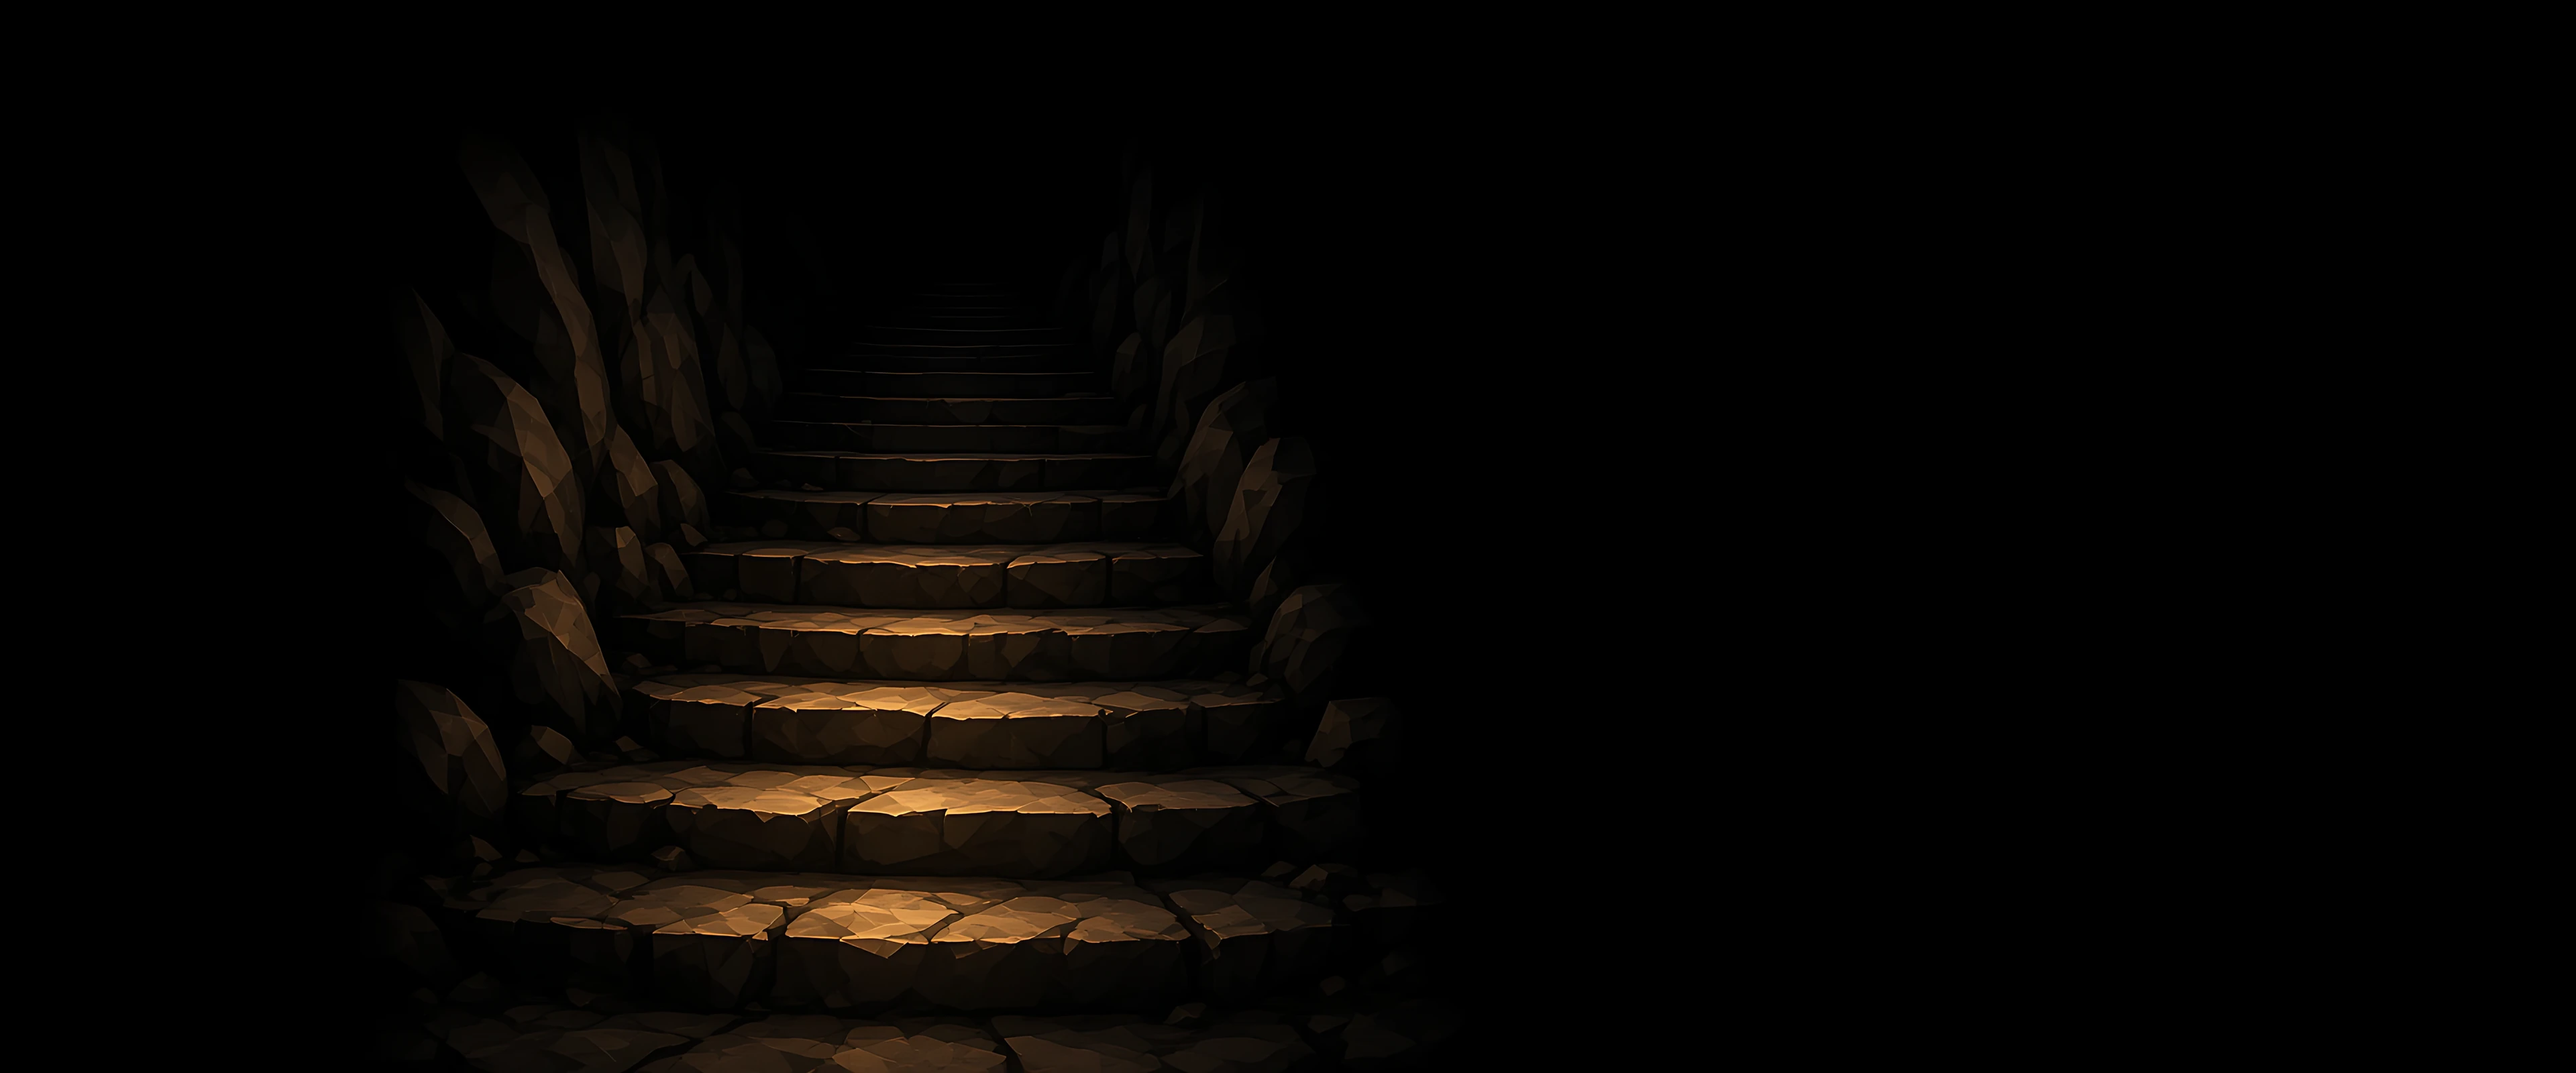
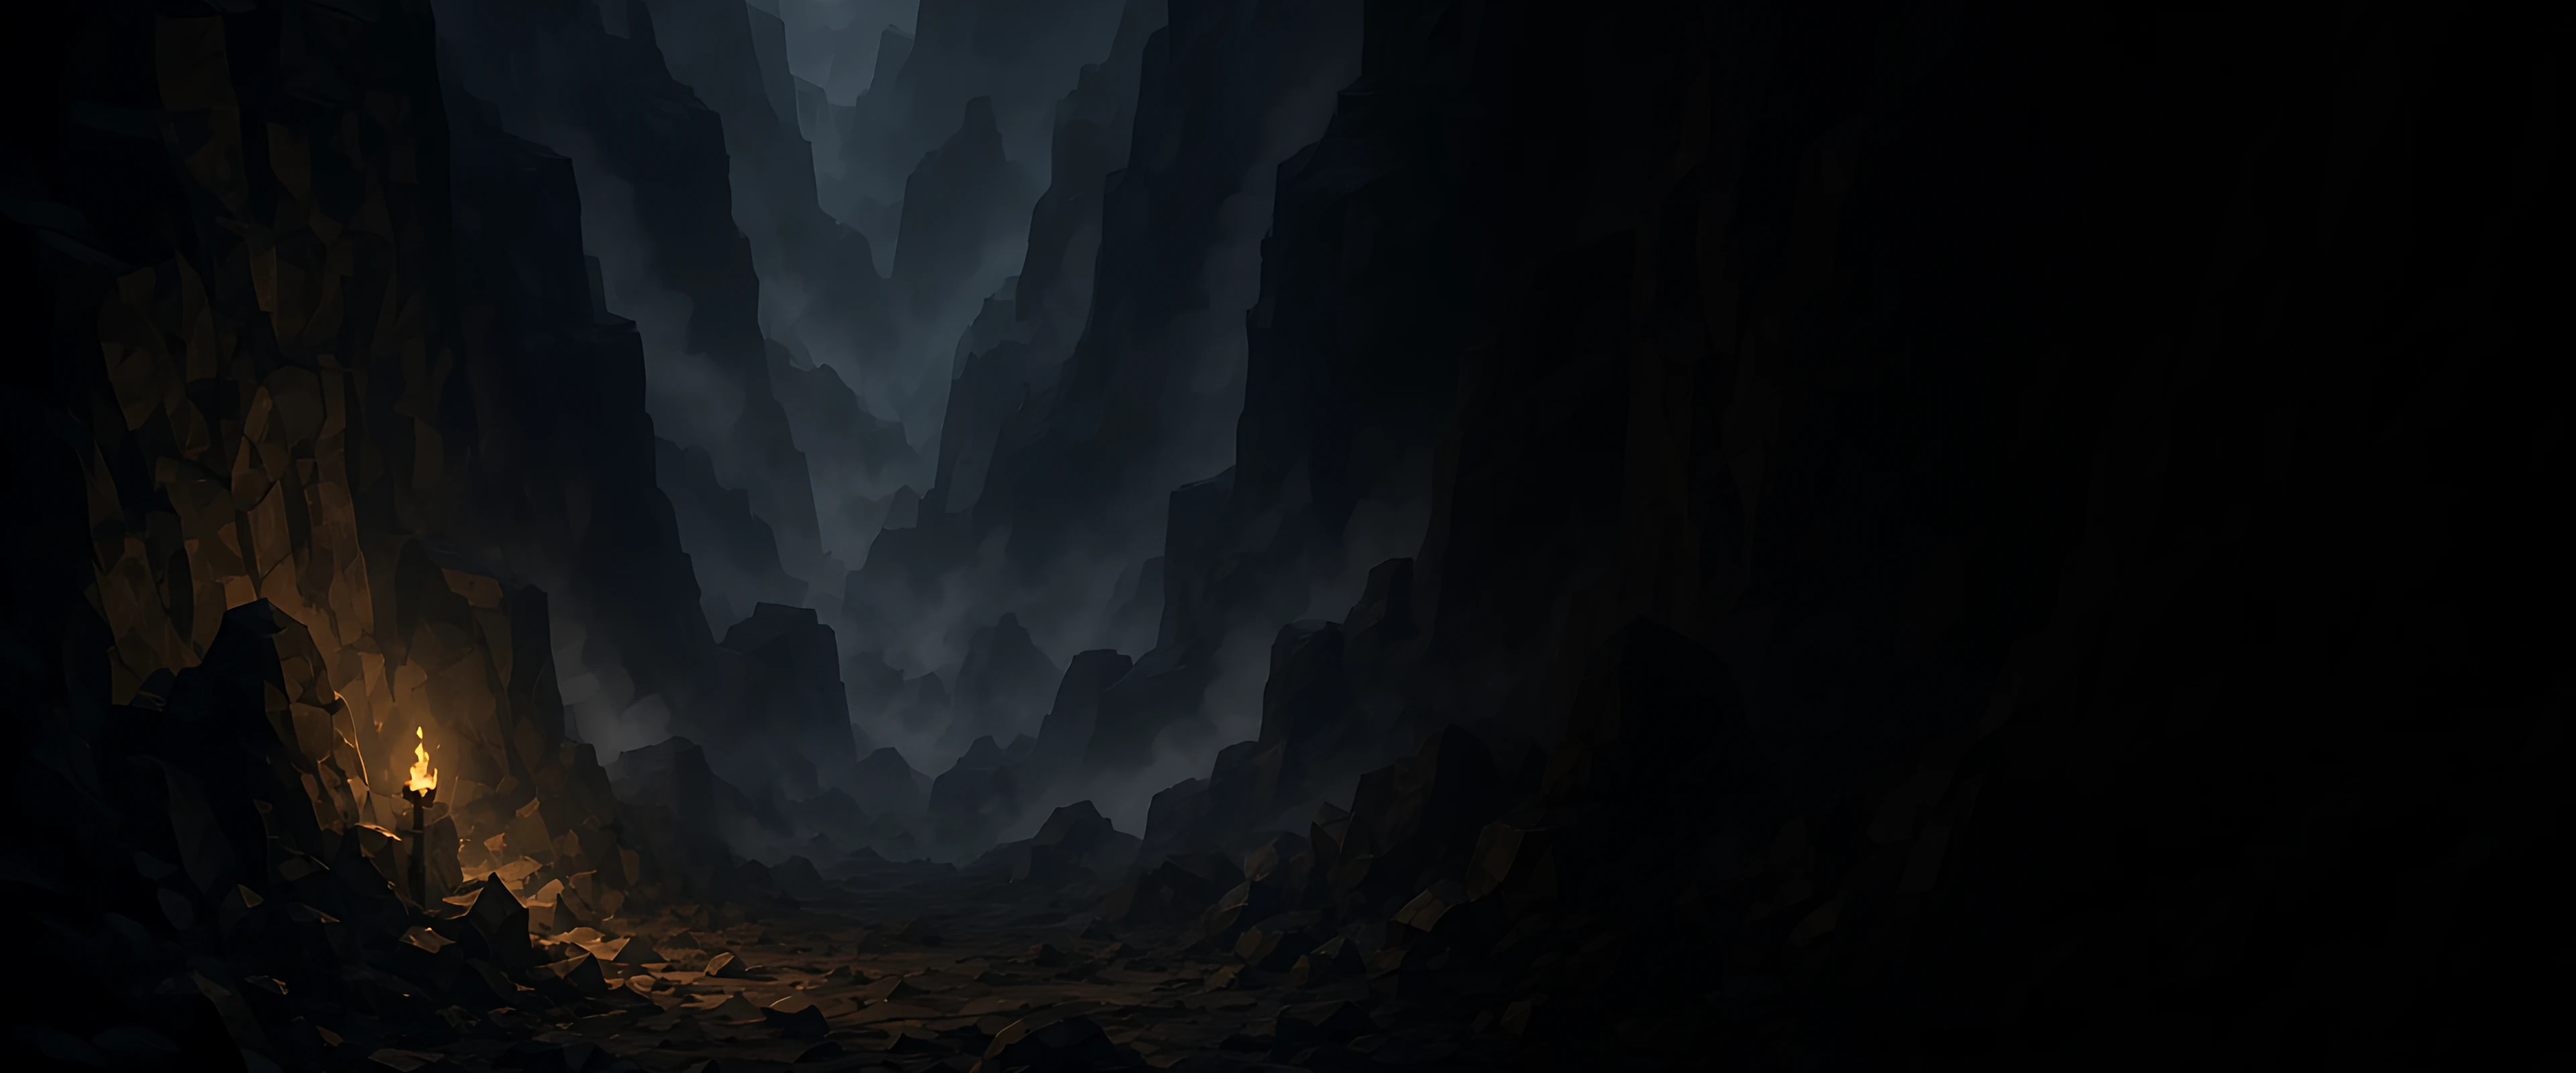
Menu v3a: bg_menu v3 (md5 230e54ed), .mm-glow removed, data-driven torch flicker (MENU_ART: glow, flame, lit rocks, pan cap) in image coordinates, 16:9 pan keeps the flame on screen; stops under reduced motion

Changed region(s): [[0.0312, 0.0, 0.5625, 1.0], [0.0938, 0.25, 0.125, 0.2812]]

diff --git a/src/style.css b/src/style.css
@@ -517,17 +517,32 @@ body.reduced .foil-sweep{animation:none;opacity:0}
 
 /* ================= v2.2 main menu ================= */
 .mainmenu{position:absolute;inset:0;overflow:hidden;background:#07050a;z-index:5}
-.mm-bg{position:absolute;inset:-4%;background-size:cover;background-position:30% 50%;animation:mmpan 38s ease-in-out infinite alternate;
-  translate:calc(var(--mx,0) * -14px) calc(var(--my,0) * -8px);transition:translate .6s ease-out}
-@keyframes mmpan{from{scale:1.02;background-position:26% 48%}to{scale:1.09;background-position:36% 54%}}
-.mm-glow{position:absolute;border-radius:50%;pointer-events:none;mix-blend-mode:screen;background:radial-gradient(circle,#ffb04aaa 0,#ff7a1a44 35%,#0000 70%);animation:flicker 2.3s infinite;
-  translate:calc(var(--mx,0) * -16px) calc(var(--my,0) * -9px);transition:translate .6s ease-out}
-/* bg_menu = Palette's stairs painting (Nov 3): the glows are only a faint torch flicker on the lit steps; the old .mm-eye is gone (no figures). */
-.mm-glow{filter:opacity(.45)}
-.mm-glow.g1{left:14%;top:58%;width:17%;aspect-ratio:1}
-.mm-glow.g2{left:36%;top:30%;width:15%;aspect-ratio:1;animation-delay:-.9s;animation-duration:1.9s}
-.mm-glow.g3{left:42%;top:40%;width:10%;aspect-ratio:1;animation-delay:-1.4s;background:radial-gradient(circle,#ffd57a99 0,#ffaa3a33 40%,#0000 70%)}
-@keyframes flicker{0%,100%{opacity:.85;scale:1}12%{opacity:.6;scale:.96}25%{opacity:1;scale:1.04}41%{opacity:.7}57%{opacity:.95;scale:1.02}73%{opacity:.65;scale:.97}88%{opacity:1}}
+/* bg_menu (menu-v3a): .mm-stage is the painting at cover size (layoutMenuBg sets --iw/--ih/--itop and the pan ends --p0/--p1);
+   the lights inside are placed from MENU_ART (ui.js) in image coordinates, so they track the scale, pan and parallax. */
+.mm-bg{position:absolute;inset:0;translate:calc(var(--mx,0) * -14px) calc(var(--my,0) * -8px);transition:translate .6s ease-out}
+.mm-stage{position:absolute;left:0;top:var(--itop,0);width:var(--iw,100%);height:var(--ih,100%);background-size:100% 100%;
+  translate:var(--p0,0) 0;animation:mmpan 38s ease-in-out infinite alternate}
+@keyframes mmpan{from{translate:var(--p0,0) 0}to{translate:var(--p1,0) 0}}
+/* torch: warm core out to --core, gone by the edge; three layers on prime-ish cycles (2.3 / 1.7 / 2.9 s) so it never repeats evenly */
+.mm-torch{position:absolute;border-radius:50%;pointer-events:none;mix-blend-mode:screen;
+  background:radial-gradient(circle closest-side,#ffb35a66 0,#ff9a3a44 var(--core,40%),#ff7a1a14 calc(var(--core,40%) + (100% - var(--core,40%)) * .5),#0000 100%)}
+.mm-torch.t1{animation:tf1 2.3s ease-in-out infinite}
+.mm-torch.t2{opacity:.5;scale:.8;animation:tf2 1.7s ease-in-out infinite;animation-delay:-.6s}
+.mm-torch.t3{opacity:.35;scale:1.1;animation:tf3 2.9s ease-in-out infinite;animation-delay:-1.3s}
+@keyframes tf1{0%,100%{opacity:.8;scale:1}23%{opacity:.66;scale:.97}47%{opacity:.9;scale:1.025}71%{opacity:.72;scale:.985}}
+@keyframes tf2{0%,100%{opacity:.5;scale:.8}31%{opacity:.34;scale:.77}58%{opacity:.58;scale:.83}83%{opacity:.42;scale:.79}}
+@keyframes tf3{0%,100%{opacity:.35;scale:1.1}37%{opacity:.26;scale:1.07}64%{opacity:.4;scale:1.13}}
+/* the flame itself: a small brighter breath */
+.mm-flame{position:absolute;border-radius:50%;pointer-events:none;mix-blend-mode:screen;
+  background:radial-gradient(ellipse closest-side,#ffd99055 0,#ffab4a22 55%,#0000 100%);animation:tff 1.3s ease-in-out infinite}
+@keyframes tff{0%,100%{opacity:.75;scale:1}29%{opacity:.55;scale:.96 1.03}61%{opacity:.9;scale:1.03 .98}}
+/* lit rocks: soft masked warm overlays, very low amplitude, each on its own cycle */
+.mm-rock{position:absolute;pointer-events:none;mix-blend-mode:screen;border-radius:50%;opacity:.06;
+  background:radial-gradient(ellipse closest-side,#ffa04a 0,#ff8a3a88 45%,#0000 100%);animation:trk 2.3s ease-in-out infinite}
+.mm-rock.r1{animation-duration:1.9s;animation-delay:-1.1s}.mm-rock.r2{animation-duration:2.7s;animation-delay:-.2s}.mm-rock.r3{animation-duration:3.1s;animation-delay:-1.7s}
+@keyframes trk{0%,100%{opacity:.06}35%{opacity:.035}62%{opacity:.08}}
+body.reduced .mm-stage,body.reduced .mm-torch,body.reduced .mm-flame,body.reduced .mm-rock{animation:none}
+@media (prefers-reduced-motion: reduce){.mm-stage,.mm-torch,.mm-flame,.mm-rock{animation:none!important}}
 .mm-fog{position:absolute;left:-20%;right:-20%;bottom:-5%;height:40%;pointer-events:none;opacity:.5;
   background:radial-gradient(ellipse at 30% 80%,#8a7aa055,#0000 60%),radial-gradient(ellipse at 70% 90%,#5a4a7a55,#0000 55%);animation:fogdrift 26s ease-in-out infinite alternate}
 @keyframes fogdrift{to{transform:translateX(9%)}}
@@ -564,7 +579,7 @@ body.reduced .foil-sweep{animation:none;opacity:0}
 .mm-help{font:13px/1.45 Arial,sans-serif;color:#a8988a;background:#0008;border:1px solid #3a2c22;border-radius:8px;padding:10px 12px}
 .mm-help b{color:#e8d6b0}
 .mm-ver{position:absolute;right:14px;bottom:10px;font:12px Arial;color:#6a5a50}
-body.reduced .mm-bg,body.reduced .mm-glow,body.reduced .mm-fog,body.reduced .d20svg{animation:none}
+body.reduced .mm-bg,body.reduced .mm-fog,body.reduced .d20svg{animation:none}
 body.reduced .mm-embers,body.reduced .mm-dust{display:none}
 
 /* ---- dialogs ---- */

diff --git a/src/ui.js b/src/ui.js
@@ -146,6 +146,7 @@
     todo.forEach(c => { if (c.isConnected) fitRules(c); });
   }).observe(document.body, { childList: true, subtree: true });
   addEventListener('resize', () => fitAll(document.body));
+  addEventListener('resize', () => { if (ui.screen === 'title') layoutMenuBg(); });
 
   // ---------- legendary foil + card inspect (Anna approved test/foil/inspect.html, ROADMAP row 8, DECISIONS 04:55) ----------
   // Foil: Palette's art/cards/foil_sample (colours in style.css). Masks are game art, so build.js inlines them like any other:
@@ -745,12 +746,40 @@
     const p = sv.G.players[0];
     return `${esc(D.HEROES[p.heroId].name)} · ${esc(D.FLOORS[sv.G.floor].name.split(':')[0])} · ${I('heart')} ${p.hp}/${p.maxHp}`;
   }
+  // ---- main menu painting: ONE config object per image (master pixels). A new painting only changes MENU_ART. ----
+  // .mm-stage is the painting at its cover size; the torch glow, the flame breath and the lit-rock flicker are placed from these
+  // image coordinates, so they follow the painting's scale, slow pan and mouse parallax at any window size.
+  // pan: at aspect < narrowAspect the image's left edge pans between left0 and left1 (master px) so the flame and most of its
+  // glow stay on screen at both ends (Tester: v3 at 16:9 showed the image from about x 590); wider windows keep the old 26%-36%.
+  const MENU_ART = {
+    w: 3840, h: 1600,                                   // bg_menu v3 (menu-v3a)
+    glow: { x: 672, y: 1130, core: 225, fade: 550 },   // warm core radius, gone by the fade radius
+    flame: [610, 1084, 651, 1186],                      // x1, y1, x2, y2
+    rocks: [[260, 585, 770, 1080], [490, 940, 890, 1350], [575, 1240, 1370, 1530], [1426, 1459, 1716, 1515]],
+    pan: { narrowAspect: 2.2, left0: 250, left1: 420, bleed: 1.04 },
+  };
+  function menuLightsHTML() {
+    const A = MENU_ART, pc = (v, of) => (100 * v / of).toFixed(3) + '%';
+    const box = (x1, y1, x2, y2) => `left:${pc(x1, A.w)};top:${pc(y1, A.h)};width:${pc(x2 - x1, A.w)};height:${pc(y2 - y1, A.h)}`;
+    const g = A.glow, f = A.flame, fp = Math.max(f[2] - f[0], f[3] - f[1]) * 0.8;
+    const torch = `${box(g.x - g.fade, g.y - g.fade, g.x + g.fade, g.y + g.fade)};--core:${(100 * g.core / g.fade).toFixed(1)}%`;
+    return A.rocks.map((r, i) => `<div class="mm-rock r${i}" style="${box(...r)}"></div>`).join('')
+      + [1, 2, 3].map(i => `<div class="mm-torch t${i}" style="${torch}"></div>`).join('')
+      + `<div class="mm-flame" style="${box(f[0] - fp, f[1] - fp, f[2] + fp, f[3] + fp * 0.6)}"></div>`;
+  }
+  function layoutMenuBg() {
+    const bg = $app.querySelector('.mm-bg'); if (!bg) return;
+    const A = MENU_ART, P = A.pan, W = bg.offsetWidth, H = bg.offsetHeight; if (!W || !H) return;
+    const s = Math.max(W / A.w, H / A.h) * P.bleed, iw = A.w * s, ih = A.h * s, over = iw - W, narrow = W / H < P.narrowAspect;
+    const p0 = narrow ? Math.min(P.left0 * s, over) : over * 0.26, p1 = narrow ? Math.min(P.left1 * s, over) : over * 0.36;
+    const set = (k, v) => bg.style.setProperty(k, v.toFixed(1) + 'px');
+    set('--iw', iw); set('--ih', ih); set('--itop', (H - ih) / 2); set('--p0', -p0); set('--p1', -p1);
+  }
   function titleHTML() {
     const sv = loadSave();
     const cont = sv ? `<button class="menubtn primary" data-act="continue"><span>Continue</span><small>${saveSummary(sv)}</small></button>` : '';
     return `<div class="mainmenu">
-      <div class="mm-bg" style="background-image:url(${img('bg_menu')})"></div>
-      <div class="mm-glow g1"></div><div class="mm-glow g2"></div><div class="mm-glow g3"></div>
+      <div class="mm-bg"><div class="mm-stage" style="background-image:url(${img('bg_menu')})">${menuLightsHTML()}</div></div>
       <div class="mm-fog"></div><div class="mm-embers">${particles(40, 1)}</div><div class="mm-dust">${particles(18, 7)}</div><div class="mm-vignette"></div>
       <div class="mm-panel">
         <div class="mm-logo">${D20}<div><h1>Dungeon <span>Delve</span></h1><small>a Dungeons &amp; Dragons deck-builder</small></div></div>
@@ -1069,6 +1098,7 @@
     if (ui.screen === 'title' && !ui.firstMenuAt) ui.firstMenuAt = performance.now();   // timings for the update tests
     if (ui.disp && ui.disp.pending > 0) html += dispPendingHTML();
     $app.innerHTML = html;
+    if (ui.screen === 'title') layoutMenuBg();
     if (ui.beat) applyBeat();
     markSeen();
     document.body.classList.toggle('is-modal', !!(ui.paused || ui.settingsTab || ui.confirm || ui.modal));
